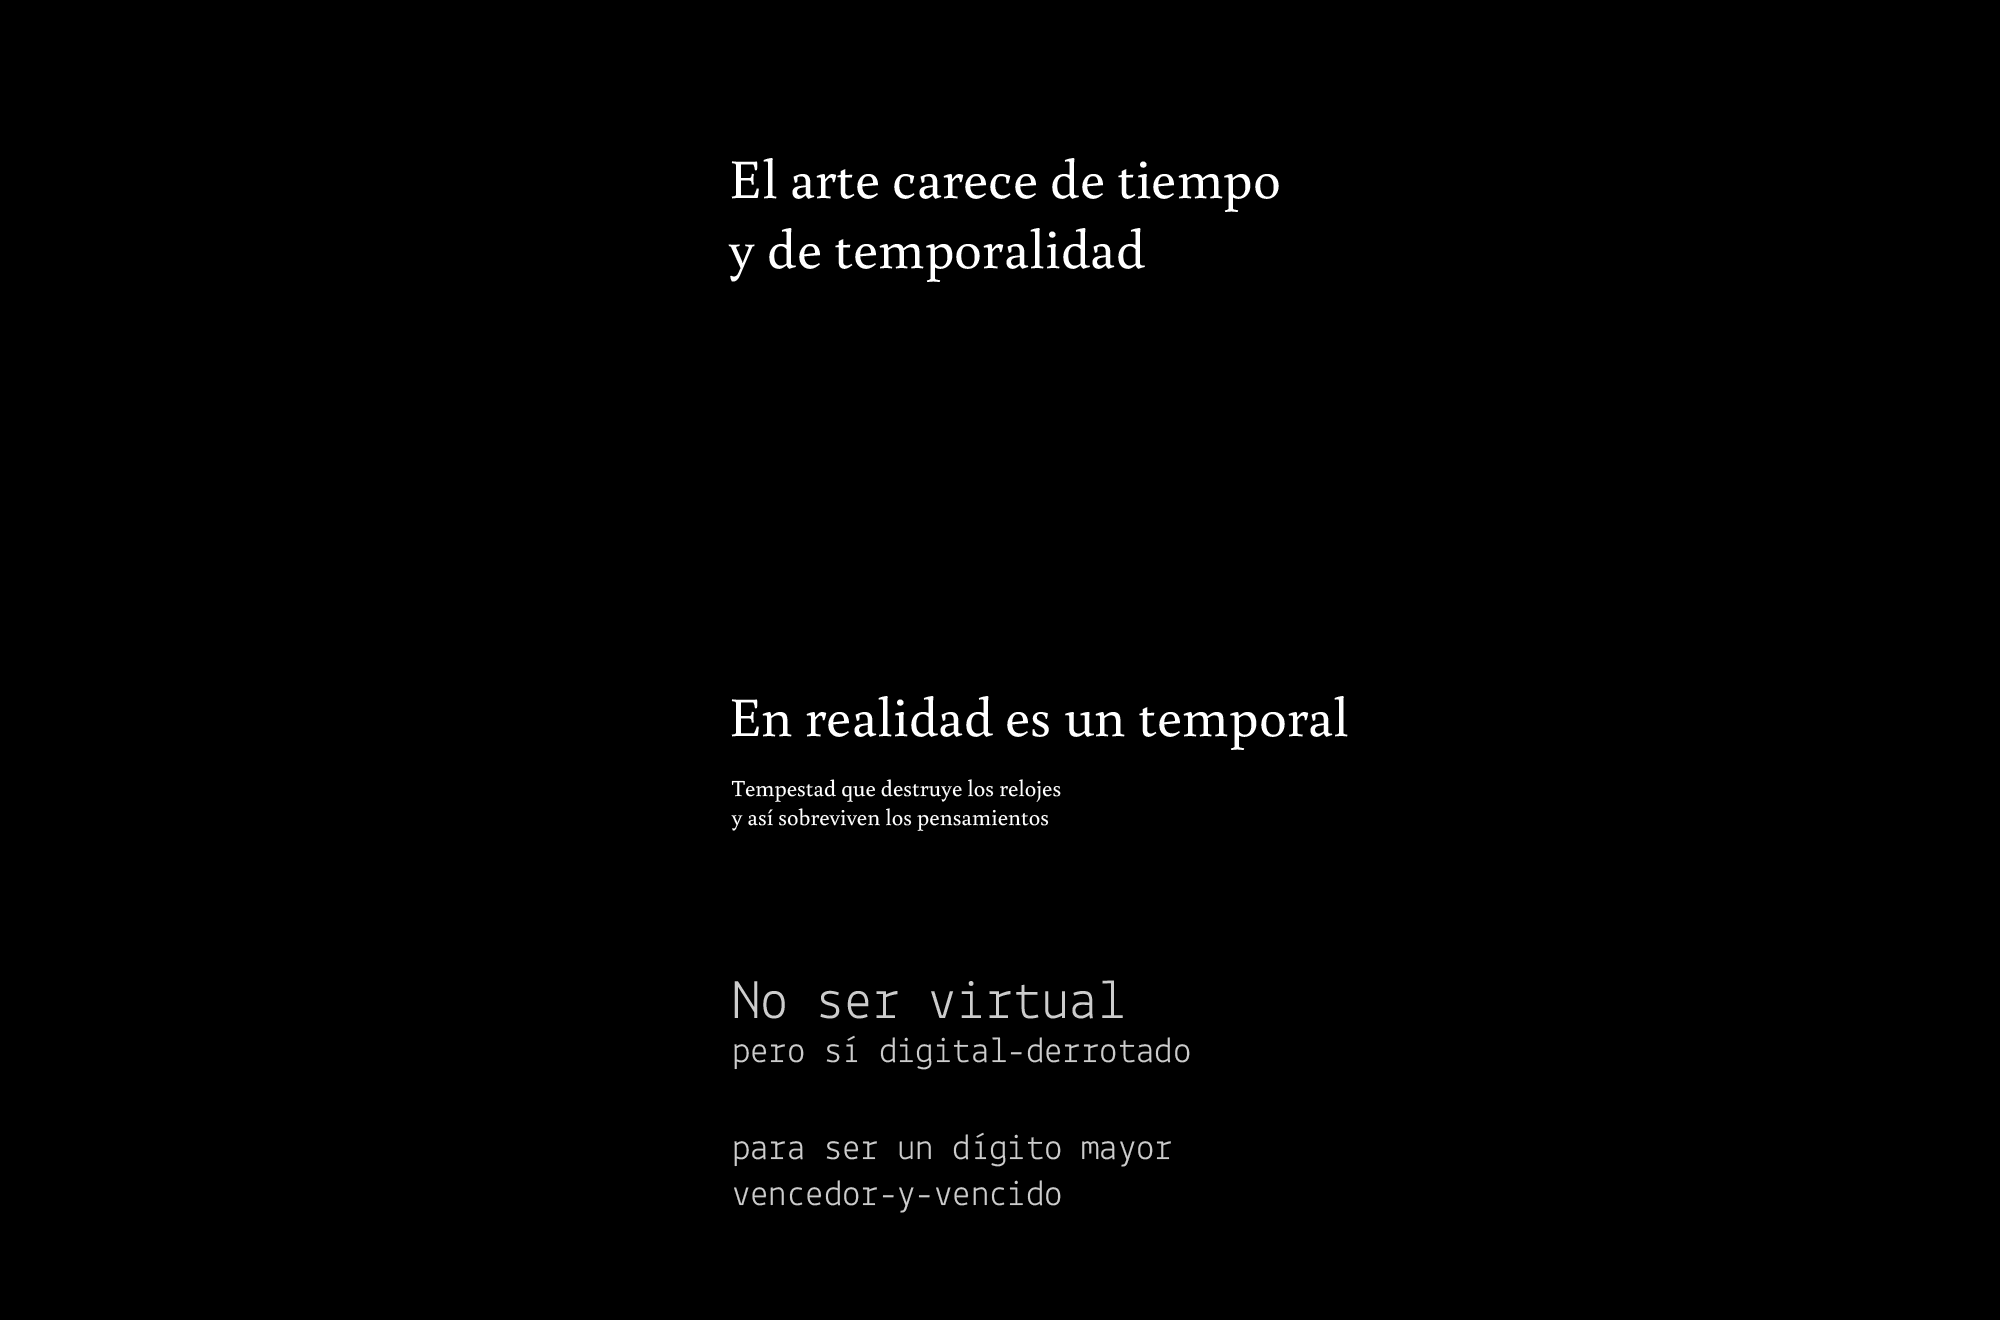
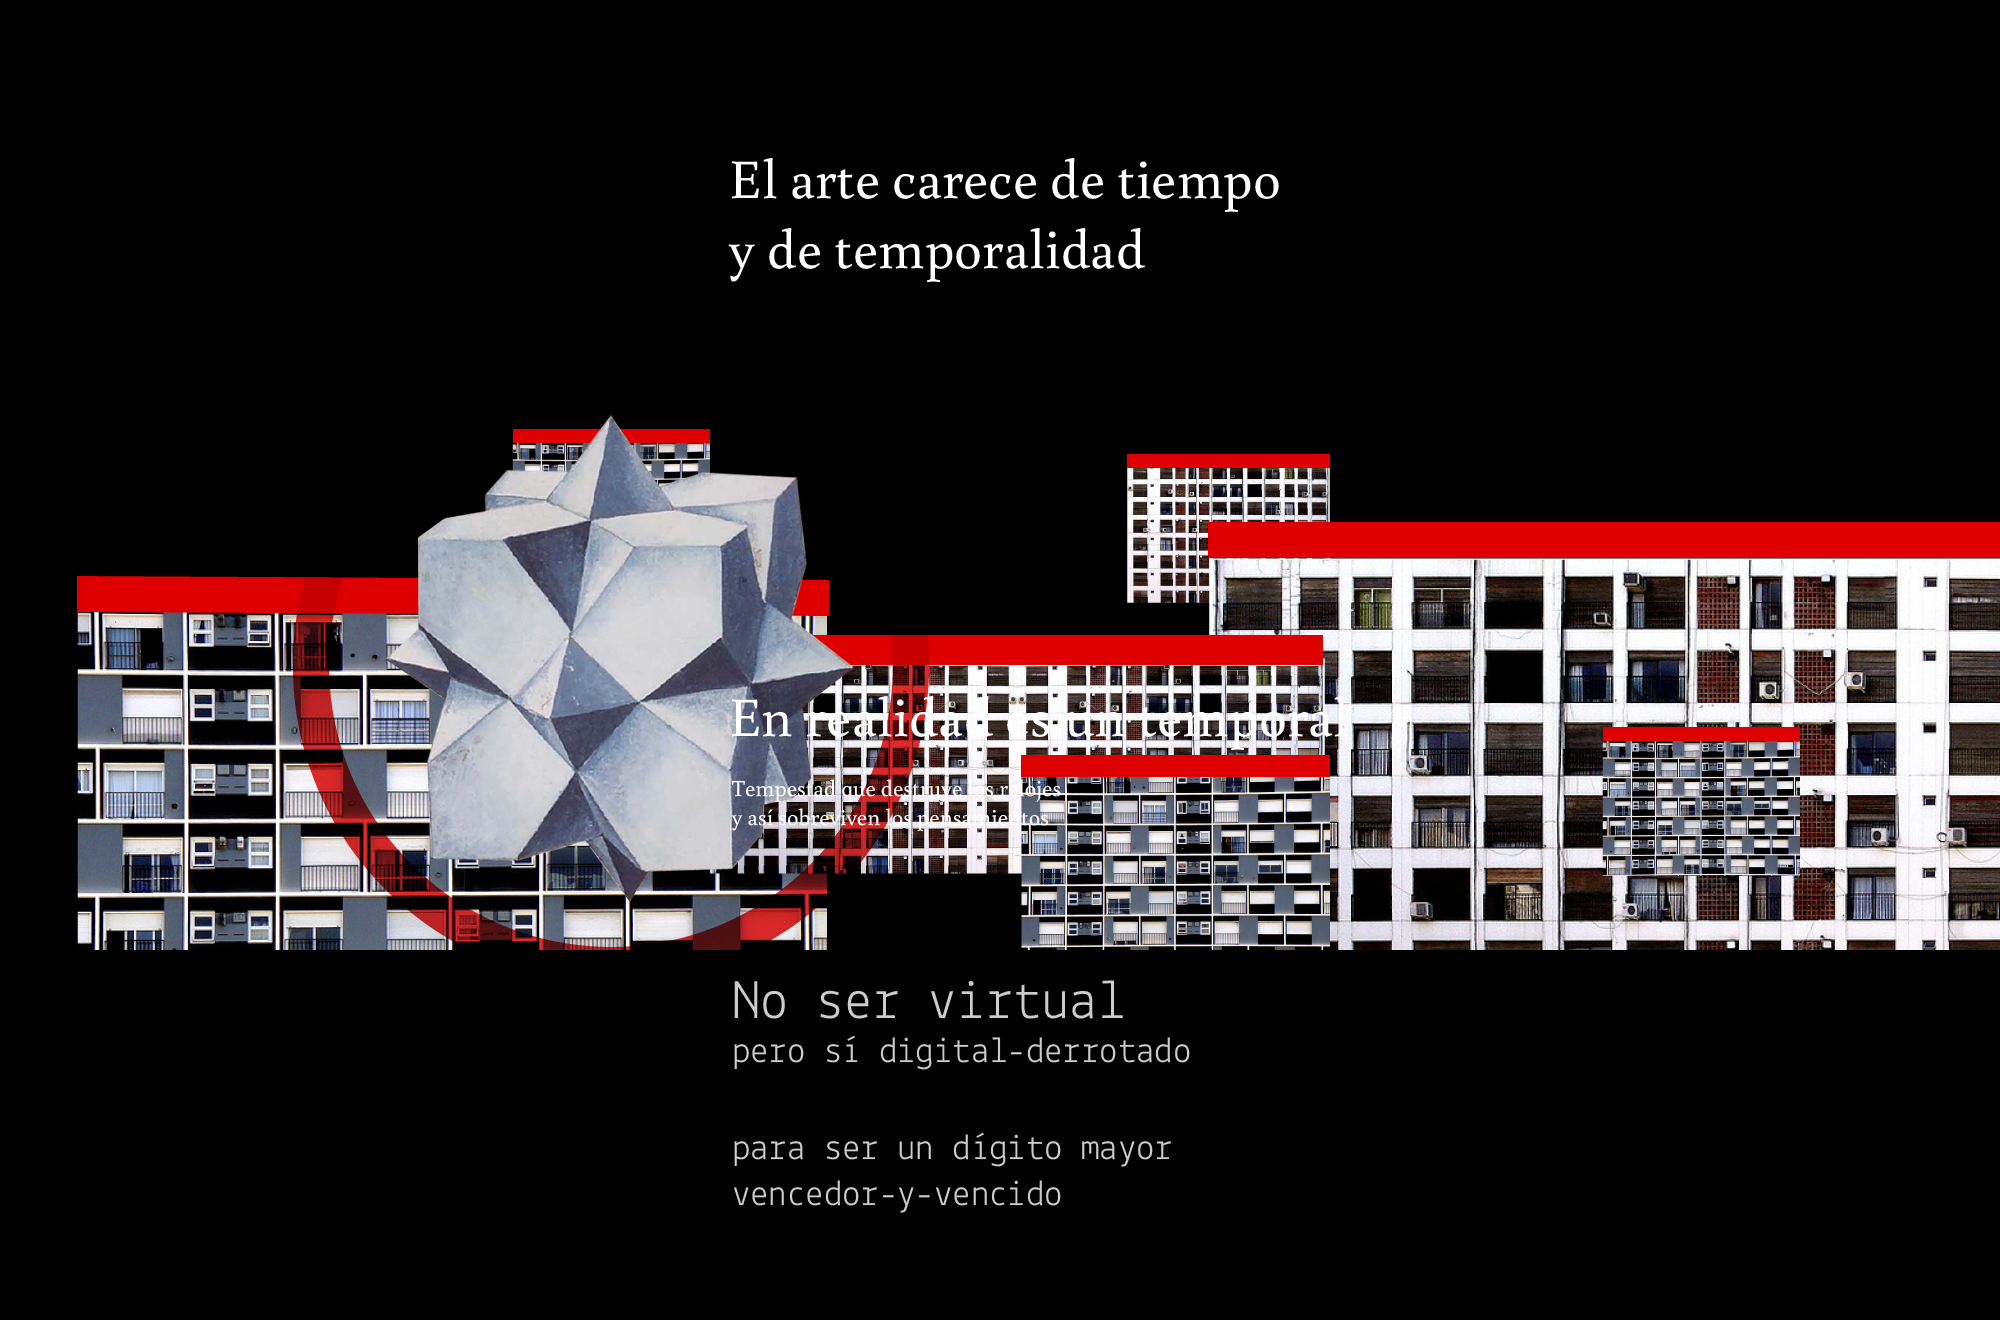
added books and pdfs, and configured redcarpet

Changed region(s): [[0.031, 0.3106, 1.0, 0.7455]]

diff --git a/app/assets/stylesheets/dev.css.sass b/app/assets/stylesheets/dev.css.sass
@@ -173,25 +173,53 @@ body.home.index
 
 
 #building
-  background: #000 url('home/building/bg.png') center center no-repeat
+  background: #000
   overflow: hidden
   color: #fff
   .scrollblock
-    height: image-height('home/building/bg.png')
+    height: 1320px
     img
       position: absolute
 
 
-#building-tb1, #building-tb2, #building-tb3
+#building-tb1, #building-tb2, #building-tb3, #building-tb4
   position: absolute
   left: 224px
 
+@for $i from 1 through 7
+  #building-b#{$i} 
+    background: url('home/building/b#{$i}.png') top center repeat-y
+    width: image-width('home/building/b#{$i}.png')
+    position: absolute
+    height: 1000px
+
+#building-b1
+  left: 0px
+  top: 980px
+#building-b2
+  left: 679px
+  top: 988px
+#building-b3
+  left: 224px
+  top: 224px
+#building-b4
+  left: 224px
+  top: 224px
+#building-b5
+  left: 224px
+  top: 224px
+#building-b6
+  left: 224px
+  top: 224px
+#building-b7
+  left: 632px
+  top: 1100px
 
 #building-tb1
-  top: 473px
+  top: 147px
   h3
     font-size: 55px
-    line-height: 55px
+    line-height: 70px
     font-family: BuenardRegular
 #building-tb2
   top: 692px
@@ -202,6 +230,8 @@ body.home.index
   h5
     font-size: 23px
     font-family: BuenardRegular
+    line-height: 30px
+    margin-top: 28px
 #building-tb3
   top: 972px
   h3
@@ -211,4 +241,7 @@ body.home.index
   h4
     font-size: 37px
     font-family: LektonRegular
+    line-height: 43px
+    margin-bottom: 56px
+    width: 490px    
 

diff --git a/app/assets/stylesheets/themize.css.sass b/app/assets/stylesheets/themize.css.sass
@@ -191,7 +191,7 @@ body.capacitacion
 
 
 
-.collapsible.links
+.collapsible.sidebar
   h4
     color: #666
     height: 18px
@@ -200,6 +200,7 @@ body.capacitacion
       content: ''  //no middle dot
 
   .collapse
+    color: #999
     ul
       margin: 8px 0 0
       li
@@ -360,7 +361,7 @@ article
     margin-bottom: 24px
     a, a:visited, a:active
       color: inherit
-  p
+  .post-body
     font-family: BuenardRegular
     font-size: 18px
     margin: 0 0 26px

diff --git a/db/schema.rb b/db/schema.rb
@@ -1,4 +1,3 @@
-# encoding: UTF-8
 # This file is auto-generated from the current state of the database. Instead
 # of editing this file, please use the migrations feature of Active Record to
 # incrementally modify your database, and then regenerate this schema definition.
@@ -11,10 +10,37 @@
 #
 # It's strongly recommended to check this file into your version control system.
 
-ActiveRecord::Schema.define(:version => 20120419193002) do
+ActiveRecord::Schema.define(:version => 20120426164955) do
+
+  create_table "books", :force => true do |t|
+    t.string   "title"
+    t.text     "body"
+    t.text     "points_of_sale"
+    t.text     "buy_online"
+    t.boolean  "obra_escrita"
+    t.boolean  "ticho_ediciones"
+    t.datetime "created_at"
+    t.datetime "updated_at"
+    t.string   "cover_file_name"
+    t.string   "cover_content_type"
+    t.integer  "cover_file_size"
+    t.datetime "cover_updated_at"
+  end
+
+  create_table "pdfs", :force => true do |t|
+    t.string   "title"
+    t.integer  "pdfable_id"
+    t.string   "pdfable_type"
+    t.datetime "created_at"
+    t.datetime "updated_at"
+    t.string   "file_file_name"
+    t.string   "file_content_type"
+    t.integer  "file_file_size"
+    t.datetime "file_updated_at"
+  end
 
   create_table "photos", :force => true do |t|
-    t.string   "name"
+    t.string   "title"
     t.integer  "photoable_id"
     t.string   "photoable_type"
     t.datetime "created_at"
@@ -42,6 +68,8 @@ ActiveRecord::Schema.define(:version => 20120419193002) do
     t.datetime "updated_at"
     t.string   "audio"
     t.string   "video"
+    t.string   "sidebar_title"
+    t.text     "sidebar_body"
   end
 
   create_table "rails_admin_histories", :force => true do |t|

diff --git a/db/migrate/20120426164937_add_attachment_cover_to_book.rb b/db/migrate/20120426164937_add_attachment_cover_to_book.rb
@@ -1,0 +1,15 @@
+class AddAttachmentCoverToBook < ActiveRecord::Migration
+  def self.up
+    add_column :books, :cover_file_name, :string
+    add_column :books, :cover_content_type, :string
+    add_column :books, :cover_file_size, :integer
+    add_column :books, :cover_updated_at, :datetime
+  end
+
+  def self.down
+    remove_column :books, :cover_file_name
+    remove_column :books, :cover_content_type
+    remove_column :books, :cover_file_size
+    remove_column :books, :cover_updated_at
+  end
+end

diff --git a/db/migrate/20120426164955_add_attachment_file_to_pdf.rb b/db/migrate/20120426164955_add_attachment_file_to_pdf.rb
@@ -1,0 +1,15 @@
+class AddAttachmentFileToPdf < ActiveRecord::Migration
+  def self.up
+    add_column :pdfs, :file_file_name, :string
+    add_column :pdfs, :file_content_type, :string
+    add_column :pdfs, :file_file_size, :integer
+    add_column :pdfs, :file_updated_at, :datetime
+  end
+
+  def self.down
+    remove_column :pdfs, :file_file_name
+    remove_column :pdfs, :file_content_type
+    remove_column :pdfs, :file_file_size
+    remove_column :pdfs, :file_updated_at
+  end
+end

diff --git a/app/models/book.rb b/app/models/book.rb
@@ -1,0 +1,15 @@
+class Book < ActiveRecord::Base
+
+  has_attached_file :cover, :styles => { :medium => "300x430#" }
+
+  # add a delete_<asset_name> method: 
+  attr_accessor :delete_cover
+  before_validation { self.cover.clear if self.delete_cover == '1' }  
+
+  has_many :photos, :as => :photoable
+  has_many :pdfs, :as => :pdfable
+
+  accepts_nested_attributes_for :photos, :allow_destroy => true
+  accepts_nested_attributes_for :pdfs, :allow_destroy => true
+
+end

diff --git a/config/initializers/rails_admin.rb b/config/initializers/rails_admin.rb
@@ -79,6 +79,22 @@ RailsAdmin.config do |config|
 
   # All fields marked as 'hidden' won't be shown anywhere in the rails_admin unless you mark them as visible. (visible(true))
 
+
+
+  config.model Photo do
+    edit do
+      field :title
+      field :image
+    end
+  end
+
+  config.model Pdf do
+    edit do
+      field :title
+      field :file
+    end
+  end
+
   # config.model User do
   #   # Found associations:
   #   # Found columns:

diff --git a/app/models/post.rb b/app/models/post.rb
@@ -1,9 +1,8 @@
 class Post < ActiveRecord::Base
   has_many :photos, :as => :photoable
-  has_many :postlinks
+  has_many :pdfs, :as => :pdfable
 
-  accepts_nested_attributes_for :postlinks, :allow_destroy => true
-  attr_accessible :postlinks_attributes, :allow_destroy => true
-
+  accepts_nested_attributes_for :photos, :allow_destroy => true
+  accepts_nested_attributes_for :pdfs, :allow_destroy => true
   
 end

diff --git a/app/models/photo.rb b/app/models/photo.rb
@@ -1,4 +1,8 @@
 class Photo < ActiveRecord::Base
   has_attached_file :image, :styles => { :medium => "540x300>", :thumb => "100x100#" }
   belongs_to :photoable, :polymorphic => true
+
+  # add a delete_<asset_name> method: 
+  attr_accessor :delete_image
+  before_validation { self.image.clear if self.delete_image == '1' }  
 end

diff --git a/db/migrate/20120426164051_create_books.rb b/db/migrate/20120426164051_create_books.rb
@@ -1,0 +1,14 @@
+class CreateBooks < ActiveRecord::Migration
+  def change
+    create_table :books do |t|
+      t.string :title
+      t.text :body
+      t.text :points_of_sale
+      t.text :buy_online
+      t.boolean :obra_escrita
+      t.boolean :ticho_ediciones
+
+      t.timestamps
+    end
+  end
+end

diff --git a/app/models/pdf.rb b/app/models/pdf.rb
@@ -1,0 +1,9 @@
+class Pdf < ActiveRecord::Base
+  #todo: validate content type
+  has_attached_file :file
+  belongs_to :pdfable, :polymorphic => true
+
+  # add a delete_<asset_name> method: 
+  attr_accessor :delete_file
+  before_validation { self.file.clear if self.delete_file == '1' }  
+end

diff --git a/config/initializers/haml_markdown.rb b/config/initializers/haml_markdown.rb
@@ -1,0 +1,10 @@
+module Haml::Filters::Markdown
+  include Haml::Filters::Base
+  lazy_require "redcarpet"
+
+  def render(text)
+    markdown = Redcarpet::Markdown.new(Redcarpet::Render::HTML,
+        :autolink => true, :space_after_headers => true)
+    markdown.render(text)  
+  end
+end
